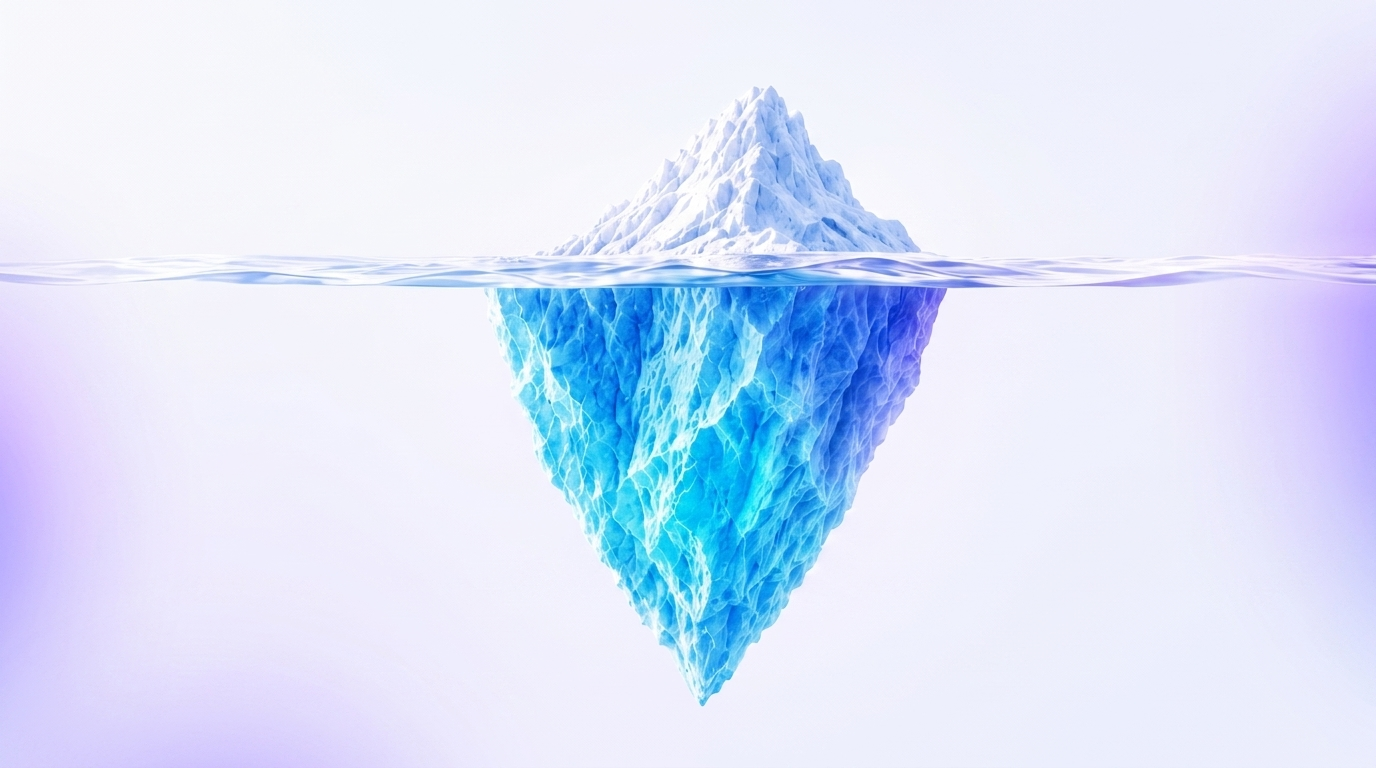
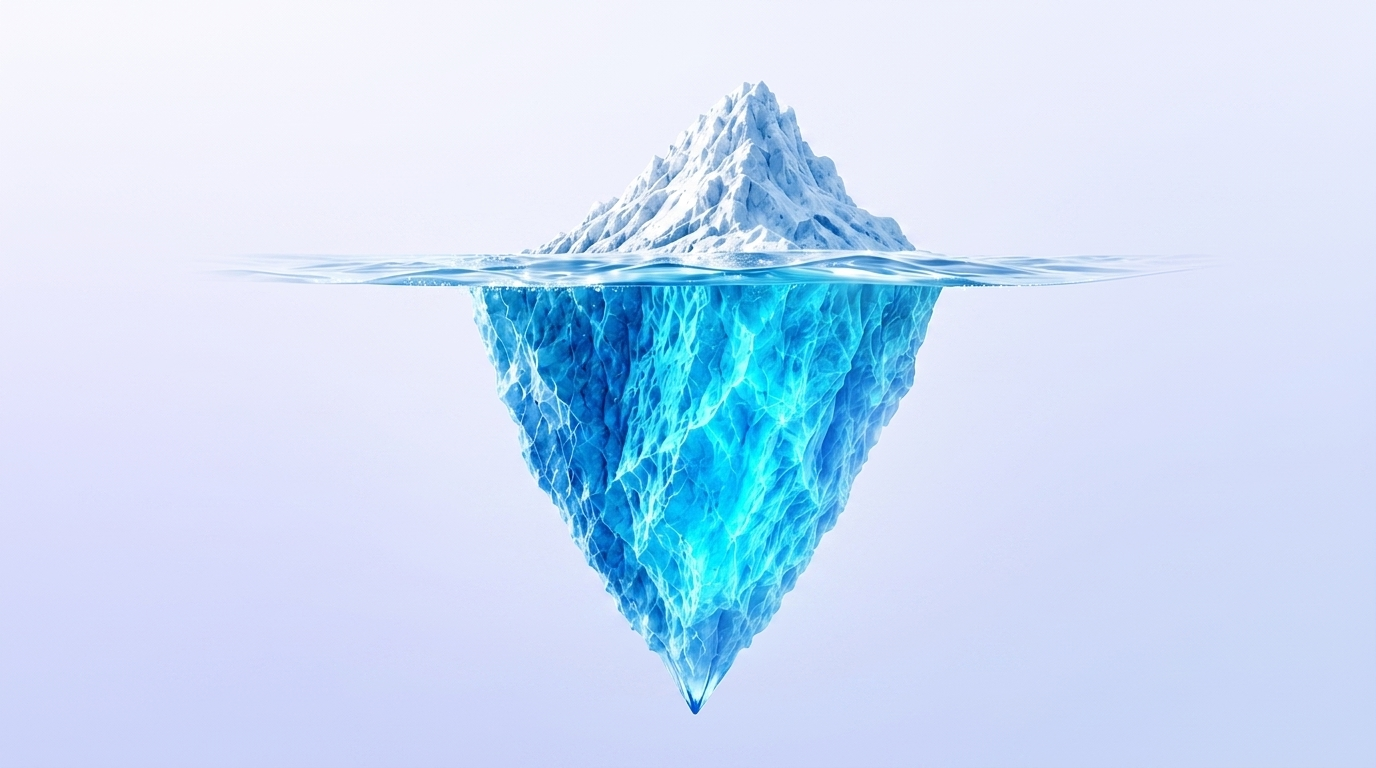
feat: world-class sticky fluid blur Hero transition with transparent parallax Core Problem centerpiece

diff --git a/src/app/components/adopt/AdoptLandingPage.tsx b/src/app/components/adopt/AdoptLandingPage.tsx
@@ -320,23 +320,22 @@ export const AdoptLandingPage: React.FC<AdoptLandingPageProps> = ({
         </div>
       </header>
 
-      {/* ── SECTION 1: HERO (STICKY WITH PARALLAX BLUR EFFECT) ──────── */}
+      {/* ── SECTION 1: HERO (STICKY WITH FLUID PARALLAX BLUR TRANSITION) ─ */}
       <section
-        className="sticky top-0 z-10 min-h-[85vh] flex flex-col justify-between pt-20 pb-12 lg:pt-24 lg:pb-12 overflow-hidden bg-transparent will-change-transform transition-all duration-150 ease-out"
+        className="sticky top-0 z-10 h-screen w-full flex flex-col justify-between pt-20 pb-12 lg:pt-24 lg:pb-12 overflow-hidden bg-transparent will-change-transform"
         style={{
-          filter: `blur(${Math.min(Math.max((scrollY - 40) * 0.024, 0), 16)}px)`,
-          opacity: Math.max(1 - Math.max(scrollY - 60, 0) * 0.0016, 0.2),
-          transform: `scale(${Math.max(1 - Math.max(scrollY - 40, 0) * 0.00028, 0.95)})`,
-          transformOrigin: "50% 30%",
+          filter: `blur(${Math.min(Math.max((scrollY - 50) * 0.04, 0), 28)}px)`,
+          transform: `scale(${Math.max(1 - Math.max(scrollY - 50, 0) * 0.00015, 0.96)})`,
+          transformOrigin: "50% 35%",
         }}
       >
-        {/* Background Visual Asset: 8K 3D Translucent Waves & Glass Play Prism */}
+        {/* Background Visual Asset: 8K 3D Translucent Waves & Glass Play Prism (Living Fluid Atmosphere) */}
         <div className="absolute inset-0 w-full h-full pointer-events-none select-none z-0 overflow-hidden flex items-center justify-end">
           {/* Parallax & Scroll-Surging Forward Animation Container */}
           <div
             className="w-full h-full will-change-transform transition-transform duration-200 ease-out"
             style={{
-              transform: `translate3d(${50 + Math.min(scrollY * 0.14, 80)}px, ${Math.min(scrollY * -0.06, -40)}px, 0) scale(${1 + Math.min(scrollY * 0.00065, 0.24)}) perspective(1000px) rotateY(${Math.min(scrollY * -0.012, 5)}deg)`,
+              transform: `translate3d(${50 + Math.min(scrollY * 0.16, 90)}px, ${Math.min(scrollY * -0.07, -45)}px, 0) scale(${1 + Math.min(scrollY * 0.00065, 0.24)}) perspective(1000px) rotateY(${Math.min(scrollY * -0.012, 5)}deg)`,
               transformOrigin: "78% 50%",
             }}
           >
@@ -347,7 +346,7 @@ export const AdoptLandingPage: React.FC<AdoptLandingPageProps> = ({
             />
           </div>
 
-          {/* Seamless luminous ambient gradient overlay on the left to perfectly integrate text */}
+          {/* Seamless luminous ambient gradient overlay on the left */}
           <div
             className="absolute inset-0 pointer-events-none z-10"
             style={{
@@ -356,7 +355,16 @@ export const AdoptLandingPage: React.FC<AdoptLandingPageProps> = ({
           />
         </div>
 
-        <div className="max-w-[1440px] mx-auto px-6 sm:px-10 lg:px-12 w-full relative z-10 my-auto">
+        {/* Hero Interactive Text Content: Blurs & Fades smoothly on scroll */}
+        <div
+          className="max-w-[1440px] mx-auto px-6 sm:px-10 lg:px-12 w-full relative z-10 my-auto will-change-transform transition-all duration-150 ease-out"
+          style={{
+            filter: `blur(${Math.min(Math.max((scrollY - 20) * 0.045, 0), 20)}px)`,
+            opacity: Math.max(1 - Math.max(scrollY - 30, 0) * 0.0035, 0),
+            transform: `translate3d(0, ${Math.min(scrollY * 0.22, 100)}px, 0) scale(${Math.max(1 - Math.max(scrollY - 20, 0) * 0.0003, 0.92)})`,
+            pointerEvents: scrollY > 200 ? "none" : "auto",
+          }}
+        >
           <div className="max-w-2xl text-left">
             {/* Eyebrow Badge */}
             <div className="mb-4">
@@ -460,38 +468,47 @@ export const AdoptLandingPage: React.FC<AdoptLandingPageProps> = ({
         </div>
       </section>
 
-      {/* ── SECTION 2: THE CORE PROBLEM (FULL-WIDTH PARALLAX CENTERPIECE) ──── */}
+      {/* ── SECTION 2: THE CORE PROBLEM (TRANSPARENT PARALLAX OVER FLUID BLUR BACKDROP) ── */}
       <section
         id="problem"
-        className="w-full min-h-[100vh] lg:min-h-[108vh] relative z-20 py-20 lg:pt-24 lg:pb-36 overflow-hidden flex items-center justify-center bg-gradient-to-b from-[#fbfcff]/95 via-[#f6f9fe] to-[#f4f7fe]"
+        className="w-full min-h-screen relative z-20 py-16 sm:py-24 lg:py-32 overflow-hidden flex items-center justify-center bg-transparent"
       >
-        {/* Full-Bleed Parallax Iceberg Artwork Background */}
-        <div className="absolute inset-0 select-none pointer-events-none z-0 overflow-hidden">
+        {/* Isolated Parallax Iceberg Artwork (Transparent Background Integration) */}
+        <div className="absolute inset-0 select-none pointer-events-none z-0 overflow-hidden flex items-center justify-center">
           <div
             className="w-full h-full absolute inset-0 will-change-transform transition-transform duration-100 ease-out flex items-center justify-center"
             style={{
-              transform: `translate3d(0, ${(scrollY - 500) * -0.035}px, 0)`,
+              transform: `translate3d(0, ${(scrollY - 450) * -0.04}px, 0)`,
             }}
           >
             <img
               src={`${import.meta.env.BASE_URL}IMG/adopt_iceberg_light_bg.jpg`}
               alt="AI Adoption Iceberg Analogy"
-              className="w-full h-full object-contain sm:object-cover object-center"
+              className="w-full h-full object-contain object-center"
+              style={{
+                mixBlendMode: "multiply",
+              }}
             />
           </div>
 
-          {/* Light ambient scrim gradients for perfect text readability edge-to-edge */}
+          {/* Subtle luminous halo accent to enhance crystal depth */}
           <div
             className="absolute inset-0 pointer-events-none"
             style={{
               background:
-                "linear-gradient(to right, rgba(255,255,255,0.92) 0%, rgba(255,255,255,0.76) 28%, rgba(255,255,255,0.18) 52%, transparent 70%), linear-gradient(to top, rgba(244,247,254,0.9) 0%, transparent 12%), linear-gradient(to bottom, rgba(244,247,254,0.9) 0%, transparent 12%)",
+                "radial-gradient(ellipse at 50% 50%, rgba(255,255,255,0.4) 0%, rgba(255,255,255,0) 65%)",
             }}
           />
         </div>
 
-        {/* Full-Width Centered Content Container */}
-        <div className="max-w-[1440px] mx-auto px-6 sm:px-10 lg:px-14 w-full relative z-10 my-auto flex flex-col justify-between min-h-[640px]">
+        {/* Full-Width Centered Content Container with Smooth Scroll-In Focus */}
+        <div
+          className="max-w-[1440px] mx-auto px-6 sm:px-10 lg:px-14 w-full relative z-10 my-auto flex flex-col justify-between min-h-[640px] will-change-transform transition-all duration-200 ease-out"
+          style={{
+            opacity: Math.min(Math.max((scrollY - 80) * 0.0035, 0), 1),
+            transform: `translate3d(0, ${Math.max(45 - Math.max(scrollY - 80, 0) * 0.1, 0)}px, 0)`,
+          }}
+        >
           {/* Top Row (Above Water / Upper Content Area) */}
           <div className="grid grid-cols-1 lg:grid-cols-12 gap-8 items-start">
             {/* Top Left: Badge, Headline & Context */}
